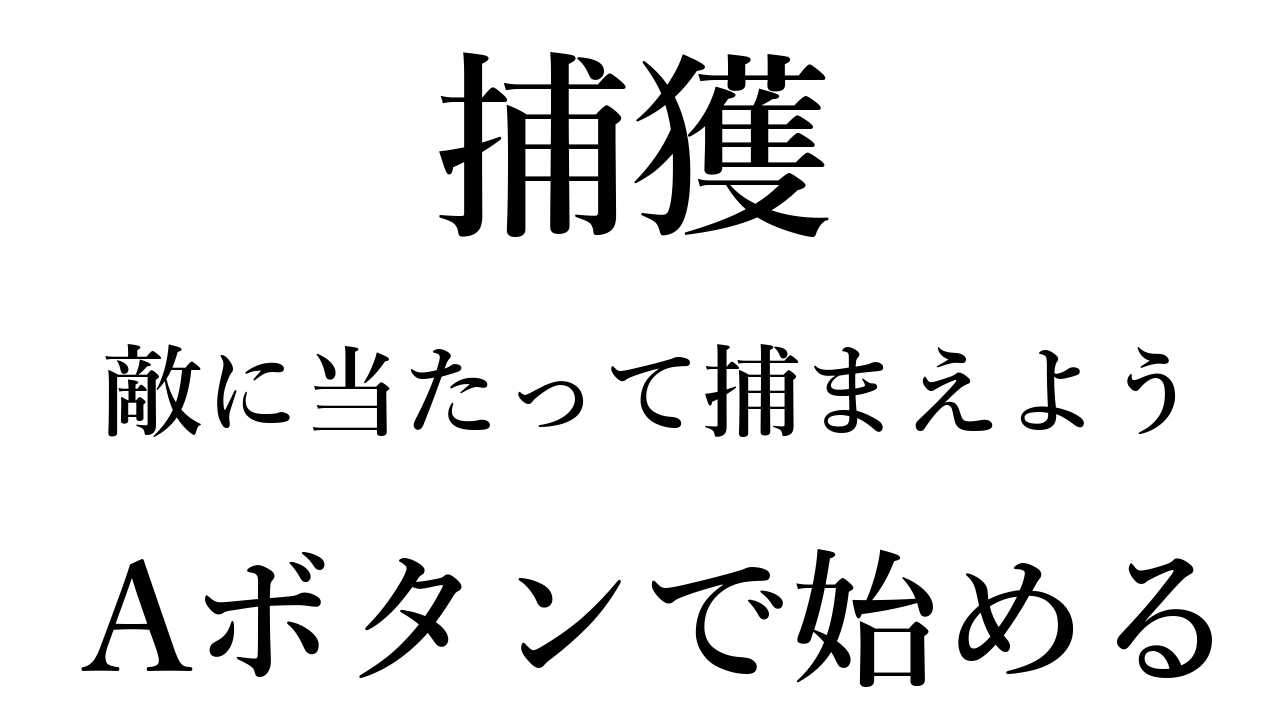
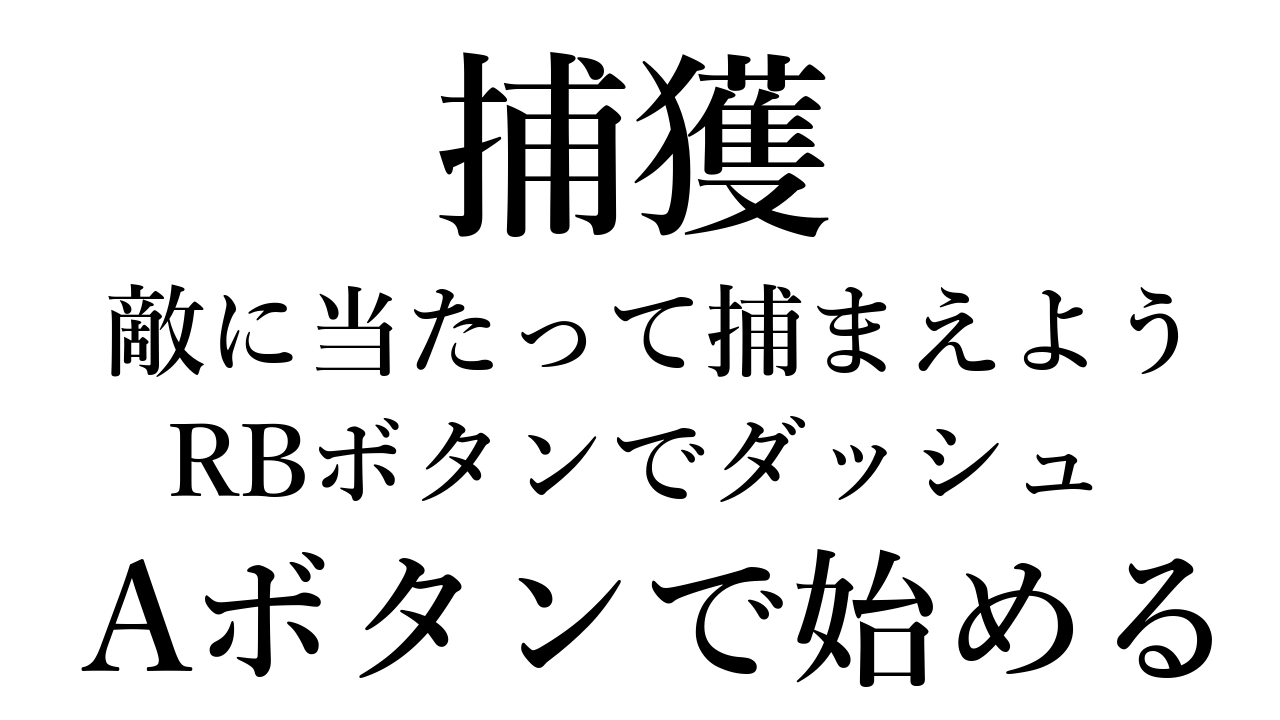
完成

diff --git a/DirectXGame/Player.cpp b/DirectXGame/Player.cpp
@@ -1,8 +1,6 @@
 #include "Player.h"
 #include <cassert>
 
-
-
 void Player::Initialize(const std::vector<Model*>& models) {
 	BaseCharacter::Initialize(models);
 
@@ -148,7 +146,12 @@ void Player::BehaviorRootUpdate() {
 
 	if (Input::GetInstance()->GetJoystickState(0, joyState)) {
 		// 速さ
-		const float speed = 0.3f;
+
+		float speed = 0.3f;
+
+		if (joyState.Gamepad.wButtons == XINPUT_GAMEPAD_RIGHT_SHOULDER) {
+			speed = 0.6f;
+		}
 		
 		// 移動量
 		Vector3 move = {
